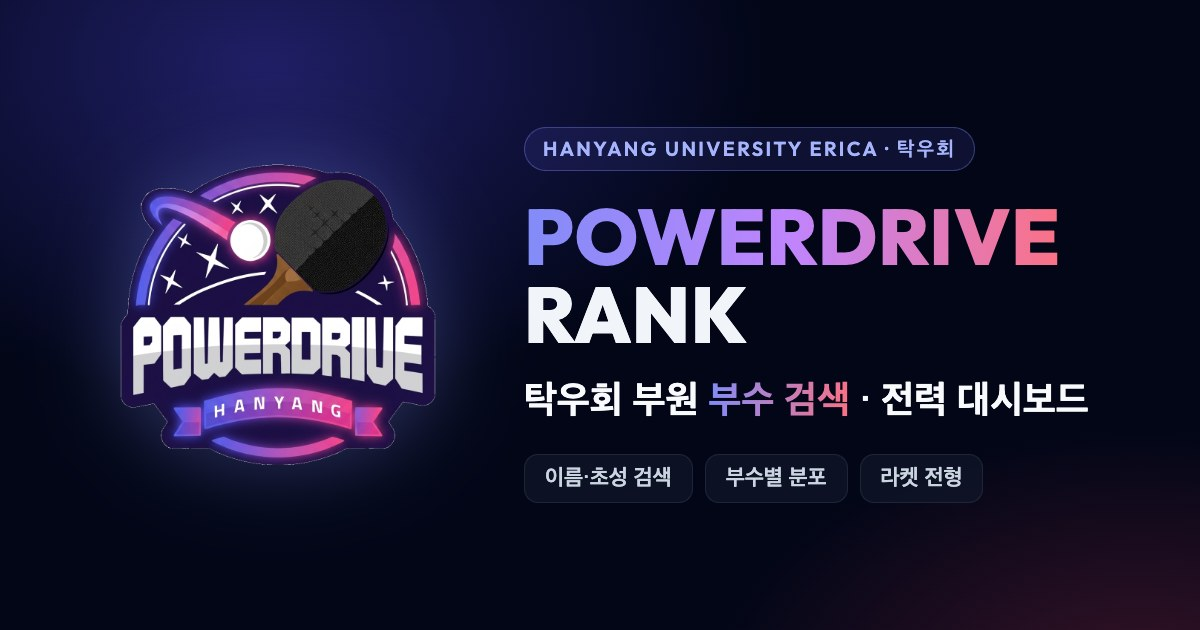
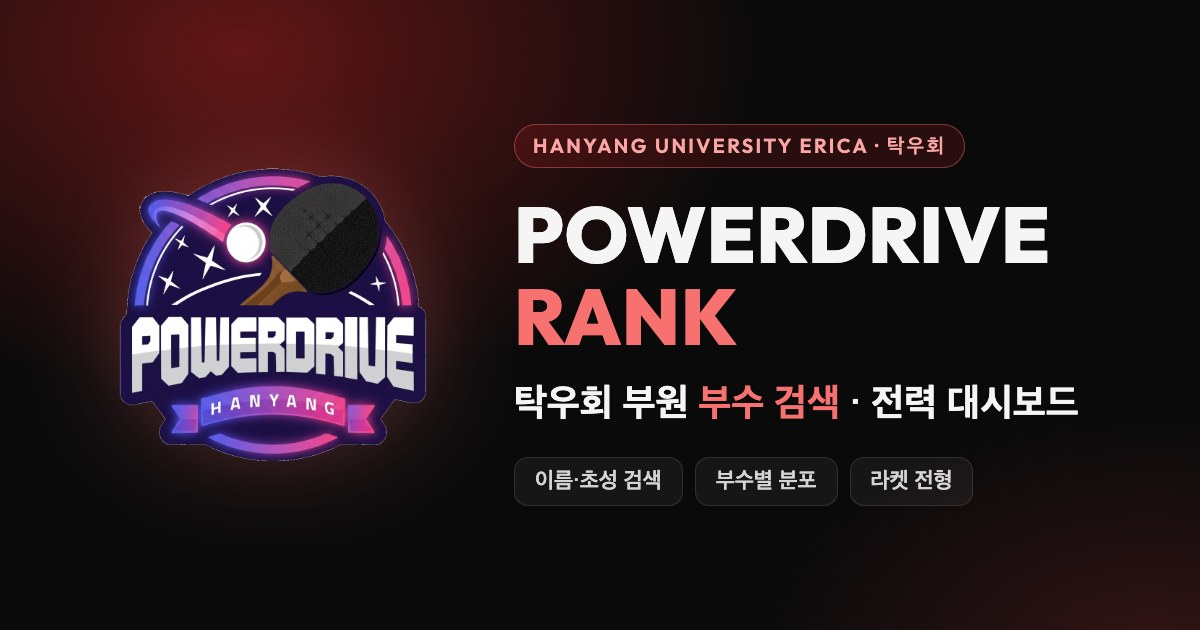
Design: Switch the theme color to rubber red
- Replace the indigo accent with red-600 (red-400 for text on dark); filled
  controls stay on red-600 in both themes so white labels keep 4.8:1 contrast
- Move 펜홀더 off rose to emerald-600: a red accent sits only ΔE 8 from rose, so
  the selected-UI color and the 펜홀더 data color were no longer distinguishable.
  쉐이크 keeps sky-600. Both pairs pass the lightness, color-blind separation and
  contrast checks against the light and dark surfaces, and both sit ΔE 32+ from
  the new accent
- Redraw the Open Graph share image in the same palette

Claude-Session: https://claude.ai/code/session_01EHjAAg4jatWM7ZBxmAp2dE

diff --git a/templates/index.html b/templates/index.html
@@ -17,7 +17,7 @@
 <!-- Page Title -->
 <div class="mb-6 text-center sm:mb-8">
     <h1 class="text-2xl font-extrabold tracking-tight sm:text-3xl">
-        탁우회 부원 <span class="text-indigo-600 dark:text-indigo-400">부수 검색</span>
+        탁우회 부원 <span class="text-red-600 dark:text-red-400">부수 검색</span>
     </h1>
 </div>
 
@@ -29,7 +29,7 @@
     <div class="grid grid-cols-3 gap-1 rounded-xl border border-slate-200 bg-white p-1 dark:border-slate-800 dark:bg-slate-900" role="group" aria-label="검색 기준">
         {% for field in ['이름', '부수', '라켓'] %}
         <a href="{{ url_for('index', filter=field) }}" data-tab="{{ field }}" {% if filter == field %}aria-current="true"{% endif %}
-           class="flex h-10 items-center justify-center rounded-lg text-sm font-semibold text-slate-500 transition-colors hover:text-slate-900 aria-[current=true]:bg-indigo-600 aria-[current=true]:text-white dark:text-slate-400 dark:hover:text-slate-100 dark:aria-[current=true]:bg-indigo-500">
+           class="flex h-10 items-center justify-center rounded-lg text-sm font-semibold text-slate-500 transition-colors hover:text-slate-900 aria-[current=true]:bg-red-600 aria-[current=true]:text-white dark:text-slate-400 dark:hover:text-slate-100 dark:aria-[current=true]:bg-red-600">
             {{ field }}
         </a>
         {% endfor %}
@@ -41,12 +41,12 @@
             <label for="search-input" class="sr-only">이름 검색어</label>
             <input id="search-input" type="search" name="query" value="{{ query }}" placeholder="이름 또는 초성 (예: 홍길동, ㅎㄱㄷ)"
                    autocomplete="off" autocapitalize="off" spellcheck="false" enterkeyhint="search"
-                   class="h-11 w-full rounded-xl border border-slate-200 bg-white pl-10 pr-3 text-sm text-slate-900 placeholder-slate-400 transition-colors focus:border-indigo-500 focus:outline-none focus:ring-2 focus:ring-indigo-500/30 dark:border-slate-800 dark:bg-slate-900 dark:text-slate-100 dark:placeholder-slate-500">
+                   class="h-11 w-full rounded-xl border border-slate-200 bg-white pl-10 pr-3 text-sm text-slate-900 placeholder-slate-400 transition-colors focus:border-red-500 focus:outline-none focus:ring-2 focus:ring-red-500/30 dark:border-slate-800 dark:bg-slate-900 dark:text-slate-100 dark:placeholder-slate-500">
             <div class="pointer-events-none absolute inset-y-0 left-3.5 flex items-center text-slate-400">
                 <i data-lucide="search" class="h-[18px] w-[18px]"></i>
             </div>
         </div>
-        <button type="submit" class="h-11 flex-shrink-0 rounded-xl bg-indigo-600 px-5 text-sm font-semibold text-white transition-colors hover:bg-indigo-700 focus:outline-none focus:ring-2 focus:ring-indigo-500/40 active:scale-[0.98] dark:bg-indigo-500 dark:hover:bg-indigo-400">
+        <button type="submit" class="h-11 flex-shrink-0 rounded-xl bg-red-600 px-5 text-sm font-semibold text-white transition-colors hover:bg-red-700 focus:outline-none focus:ring-2 focus:ring-red-500/40 active:scale-[0.98] dark:hover:bg-red-500">
             검색
         </button>
     </div>
@@ -56,7 +56,7 @@
     <div data-control-for="{{ field }}" class="mt-3 flex flex-wrap justify-center gap-2" {% if filter != field %}hidden{% endif %}>
         {% for option in options %}
         <a href="{{ url_for('index', filter=field, query=option) }}" data-chip="{{ option }}" {% if filter == field and active_value == option %}aria-current="true"{% endif %}
-           class="inline-flex h-11 items-center rounded-xl border border-slate-200 bg-white px-4 text-sm font-semibold text-slate-700 transition-colors hover:border-indigo-400 hover:text-indigo-700 aria-[current=true]:border-indigo-600 aria-[current=true]:bg-indigo-600 aria-[current=true]:text-white dark:border-slate-800 dark:bg-slate-900 dark:text-slate-300 dark:hover:border-indigo-500 dark:hover:text-indigo-300 dark:aria-[current=true]:border-indigo-500 dark:aria-[current=true]:bg-indigo-500 dark:aria-[current=true]:text-white">
+           class="inline-flex h-11 items-center rounded-xl border border-slate-200 bg-white px-4 text-sm font-semibold text-slate-700 transition-colors hover:border-red-400 hover:text-red-700 aria-[current=true]:border-red-600 aria-[current=true]:bg-red-600 aria-[current=true]:text-white dark:border-slate-800 dark:bg-slate-900 dark:text-slate-300 dark:hover:border-red-500 dark:hover:text-red-300 dark:aria-[current=true]:border-red-500 dark:aria-[current=true]:bg-red-600 dark:aria-[current=true]:text-white">
             {{ option }}
         </a>
         {% else %}
@@ -84,11 +84,11 @@
     <div class="grid grid-cols-1 gap-3 sm:grid-cols-2 lg:grid-cols-3">
         {% for member, matched in cards %}
         <article data-member data-name="{{ member.이름 }}" data-division="{{ member.부수 }}" data-racket="{{ member.라켓 }}" {% if not matched %}hidden{% endif %}
-                 class="rounded-xl border border-slate-200 bg-white p-4 transition-colors hover:border-indigo-300 dark:border-slate-800 dark:bg-slate-900 dark:hover:border-indigo-500/50">
+                 class="rounded-xl border border-slate-200 bg-white p-4 transition-colors hover:border-red-300 dark:border-slate-800 dark:bg-slate-900 dark:hover:border-red-500/50">
             <div class="flex items-start justify-between gap-3">
                 <h3 class="text-lg font-bold tracking-tight">{{ member.이름 }}</h3>
                 {% if member.부수 %}
-                <span class="flex-shrink-0 rounded-lg border border-indigo-200 bg-indigo-50 px-2.5 py-1 font-outfit text-sm font-bold text-indigo-700 dark:border-indigo-500/30 dark:bg-indigo-500/10 dark:text-indigo-300">{{ member.부수 }}</span>
+                <span class="flex-shrink-0 rounded-lg border border-red-200 bg-red-50 px-2.5 py-1 font-outfit text-sm font-bold text-red-700 dark:border-red-500/30 dark:bg-red-500/10 dark:text-red-300">{{ member.부수 }}</span>
                 {% else %}
                 <span class="flex-shrink-0 rounded-lg border border-slate-200 bg-slate-100 px-2.5 py-1 text-xs font-semibold text-slate-500 dark:border-slate-700 dark:bg-slate-800 dark:text-slate-400">부수 미지정</span>
                 {% endif %}
@@ -98,7 +98,7 @@
                 {% if member.라켓 == '쉐이크' %}
                 <span class="rounded-md border border-sky-200 bg-sky-50 px-2 py-0.5 text-xs font-semibold text-sky-700 dark:border-sky-500/30 dark:bg-sky-500/10 dark:text-sky-300">{{ member.라켓 }}</span>
                 {% elif member.라켓 == '펜홀더' %}
-                <span class="rounded-md border border-rose-200 bg-rose-50 px-2 py-0.5 text-xs font-semibold text-rose-700 dark:border-rose-500/30 dark:bg-rose-500/10 dark:text-rose-300">{{ member.라켓 }}</span>
+                <span class="rounded-md border border-emerald-200 bg-emerald-50 px-2 py-0.5 text-xs font-semibold text-emerald-700 dark:border-emerald-500/30 dark:bg-emerald-500/10 dark:text-emerald-300">{{ member.라켓 }}</span>
                 {% else %}
                 <span class="rounded-md border border-slate-200 bg-slate-100 px-2 py-0.5 text-xs font-semibold text-slate-500 dark:border-slate-700 dark:bg-slate-800 dark:text-slate-400">{{ member.라켓 or '미입력' }}</span>
                 {% endif %}

diff --git a/templates/stats.html b/templates/stats.html
@@ -4,7 +4,7 @@
 
 {% block content %}
 {# 차트 색상: 라이트·다크 배경 모두에서 명도·색각이상 구분·대비 검증을 통과한 조합 #}
-{% set racket_colors = {'쉐이크': 'bg-sky-600', '펜홀더': 'bg-rose-500', '기타': 'bg-slate-500'} %}
+{% set racket_colors = {'쉐이크': 'bg-sky-600', '펜홀더': 'bg-emerald-600', '기타': 'bg-slate-500'} %}
 
 <!-- Dummy Data Fallback Warning Banner -->
 {% if is_dummy %}
@@ -18,7 +18,7 @@
 {% endif %}
 
 <h1 class="mb-5 text-2xl font-extrabold tracking-tight sm:text-3xl">
-    탁우회 <span class="text-indigo-600 dark:text-indigo-400">통계 대시보드</span>
+    탁우회 <span class="text-red-600 dark:text-red-400">통계 대시보드</span>
 </h1>
 
 <!-- Summary Tiles -->
@@ -59,7 +59,7 @@
             {% for g in groups %}
             <a href="{{ url_for('stats', division=g.division) }}" data-division-bar="{{ g.division }}" {% if selected_division == g.division %}aria-current="true"{% endif %}
                aria-label="{{ g.division }} {{ g.count }}명 ({{ g.ratio }}%): {% for racket, count in g.rackets %}{{ racket }} {{ count }}명{{ ', ' if not loop.last }}{% endfor %}"
-               class="-mx-2 block rounded-lg px-2 py-1.5 transition-colors hover:bg-slate-100 focus-visible:outline-none focus-visible:ring-2 focus-visible:ring-indigo-500 aria-[current=true]:bg-indigo-50 dark:hover:bg-slate-800/70 dark:aria-[current=true]:bg-indigo-500/10">
+               class="-mx-2 block rounded-lg px-2 py-1.5 transition-colors hover:bg-slate-100 focus-visible:outline-none focus-visible:ring-2 focus-visible:ring-red-500 aria-[current=true]:bg-red-50 dark:hover:bg-slate-800/70 dark:aria-[current=true]:bg-red-500/10">
                 <div class="mb-1.5 flex items-center justify-between text-xs">
                     <span class="font-semibold {{ 'text-slate-500 dark:text-slate-400' if g.division == '미지정' else 'text-slate-700 dark:text-slate-200' }}">{{ g.division }}</span>
                     <span class="text-slate-500 dark:text-slate-400">
@@ -94,10 +94,10 @@
         <div class="sticky top-16 z-20 -mx-3 mb-3 overflow-x-auto border-b border-slate-200 bg-white px-3 py-2 dark:border-slate-800 dark:bg-slate-900 sm:-mx-5 sm:px-5">
             <div class="flex w-max gap-1.5">
                 <a href="{{ url_for('stats') }}" data-division-chip="" {% if not selected_division %}aria-current="true"{% endif %}
-                   class="inline-flex h-8 items-center rounded-lg border border-slate-200 px-3 text-xs font-semibold text-slate-600 transition-colors hover:border-indigo-400 hover:text-indigo-700 aria-[current=true]:border-indigo-600 aria-[current=true]:bg-indigo-600 aria-[current=true]:text-white dark:border-slate-700 dark:text-slate-300 dark:hover:border-indigo-500 dark:hover:text-indigo-300 dark:aria-[current=true]:border-indigo-500 dark:aria-[current=true]:bg-indigo-500 dark:aria-[current=true]:text-white">전체</a>
+                   class="inline-flex h-8 items-center rounded-lg border border-slate-200 px-3 text-xs font-semibold text-slate-600 transition-colors hover:border-red-400 hover:text-red-700 aria-[current=true]:border-red-600 aria-[current=true]:bg-red-600 aria-[current=true]:text-white dark:border-slate-700 dark:text-slate-300 dark:hover:border-red-500 dark:hover:text-red-300 dark:aria-[current=true]:border-red-500 dark:aria-[current=true]:bg-red-600 dark:aria-[current=true]:text-white">전체</a>
                 {% for g in groups %}
                 <a href="{{ url_for('stats', division=g.division) }}" data-division-chip="{{ g.division }}" {% if selected_division == g.division %}aria-current="true"{% endif %}
-                   class="inline-flex h-8 items-center rounded-lg border border-slate-200 px-3 text-xs font-semibold text-slate-600 transition-colors hover:border-indigo-400 hover:text-indigo-700 aria-[current=true]:border-indigo-600 aria-[current=true]:bg-indigo-600 aria-[current=true]:text-white dark:border-slate-700 dark:text-slate-300 dark:hover:border-indigo-500 dark:hover:text-indigo-300 dark:aria-[current=true]:border-indigo-500 dark:aria-[current=true]:bg-indigo-500 dark:aria-[current=true]:text-white">{{ g.division }}</a>
+                   class="inline-flex h-8 items-center rounded-lg border border-slate-200 px-3 text-xs font-semibold text-slate-600 transition-colors hover:border-red-400 hover:text-red-700 aria-[current=true]:border-red-600 aria-[current=true]:bg-red-600 aria-[current=true]:text-white dark:border-slate-700 dark:text-slate-300 dark:hover:border-red-500 dark:hover:text-red-300 dark:aria-[current=true]:border-red-500 dark:aria-[current=true]:bg-red-600 dark:aria-[current=true]:text-white">{{ g.division }}</a>
                 {% endfor %}
             </div>
         </div>
@@ -113,7 +113,7 @@
                         {% if g.division == '미지정' %}
                         <span class="rounded-md border border-slate-200 bg-white px-2 py-0.5 text-xs text-slate-500 dark:border-slate-700 dark:bg-slate-900 dark:text-slate-400">부수 미지정</span>
                         {% else %}
-                        <span class="rounded-md border border-indigo-200 bg-indigo-50 px-2 py-0.5 font-outfit text-xs text-indigo-700 dark:border-indigo-500/30 dark:bg-indigo-500/10 dark:text-indigo-300">{{ g.division }}</span>
+                        <span class="rounded-md border border-red-200 bg-red-50 px-2 py-0.5 font-outfit text-xs text-red-700 dark:border-red-500/30 dark:bg-red-500/10 dark:text-red-300">{{ g.division }}</span>
                         {% endif %}
                     </h3>
                     <span class="flex items-center gap-2.5 text-[11px] text-slate-500 dark:text-slate-400">
@@ -134,7 +134,7 @@
                         {% if m.라켓 == '쉐이크' %}
                         <span class="flex-shrink-0 rounded border border-sky-200 bg-sky-50 px-1.5 py-0.5 text-[10px] font-semibold text-sky-700 dark:border-sky-500/30 dark:bg-sky-500/10 dark:text-sky-300">{{ m.라켓 }}</span>
                         {% elif m.라켓 == '펜홀더' %}
-                        <span class="flex-shrink-0 rounded border border-rose-200 bg-rose-50 px-1.5 py-0.5 text-[10px] font-semibold text-rose-700 dark:border-rose-500/30 dark:bg-rose-500/10 dark:text-rose-300">{{ m.라켓 }}</span>
+                        <span class="flex-shrink-0 rounded border border-emerald-200 bg-emerald-50 px-1.5 py-0.5 text-[10px] font-semibold text-emerald-700 dark:border-emerald-500/30 dark:bg-emerald-500/10 dark:text-emerald-300">{{ m.라켓 }}</span>
                         {% else %}
                         <span class="flex-shrink-0 rounded border border-slate-200 bg-slate-100 px-1.5 py-0.5 text-[10px] font-semibold text-slate-500 dark:border-slate-700 dark:bg-slate-800 dark:text-slate-400">{{ m.라켓 or '미입력' }}</span>
                         {% endif %}

diff --git a/templates/base.html b/templates/base.html
@@ -74,7 +74,7 @@
             <a href="{{ url_for('index') }}" class="flex flex-shrink-0 items-center gap-2.5">
                 <img src="{{ url_for('static', filename='logo-96.png') }}" alt="" width="40" height="40" class="h-9 w-9 sm:h-10 sm:w-10">
                 <span class="font-outfit text-sm font-extrabold tracking-wide sm:text-lg">
-                    POWERDRIVE <span class="text-indigo-600 dark:text-indigo-400">RANK</span>
+                    POWERDRIVE <span class="text-red-600 dark:text-red-400">RANK</span>
                 </span>
             </a>
 
@@ -85,7 +85,7 @@
                     {% for endpoint, icon, label in nav_items %}
                     {% set is_active = request.endpoint == endpoint %}
                     <a href="{{ url_for(endpoint) }}" {% if is_active %}aria-current="page"{% endif %}
-                       class="flex h-9 items-center justify-center gap-1.5 whitespace-nowrap rounded-lg px-2.5 text-sm font-semibold transition-colors sm:px-3 {{ 'bg-indigo-50 text-indigo-700 dark:bg-indigo-500/15 dark:text-indigo-300' if is_active else 'text-slate-500 hover:bg-slate-200/70 hover:text-slate-900 dark:text-slate-400 dark:hover:bg-slate-800 dark:hover:text-slate-100' }}">
+                       class="flex h-9 items-center justify-center gap-1.5 whitespace-nowrap rounded-lg px-2.5 text-sm font-semibold transition-colors sm:px-3 {{ 'bg-red-50 text-red-700 dark:bg-red-500/15 dark:text-red-300' if is_active else 'text-slate-500 hover:bg-slate-200/70 hover:text-slate-900 dark:text-slate-400 dark:hover:bg-slate-800 dark:hover:text-slate-100' }}">
                         <i data-lucide="{{ icon }}" class="h-4 w-4 flex-shrink-0"></i>
                         <span class="sr-only sm:not-sr-only">{{ label }}</span>
                     </a>
